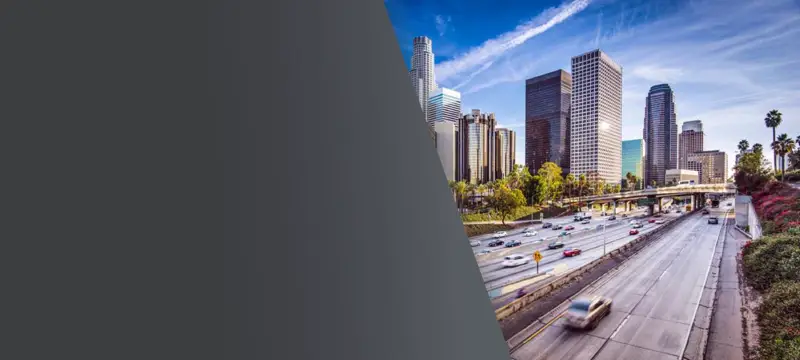
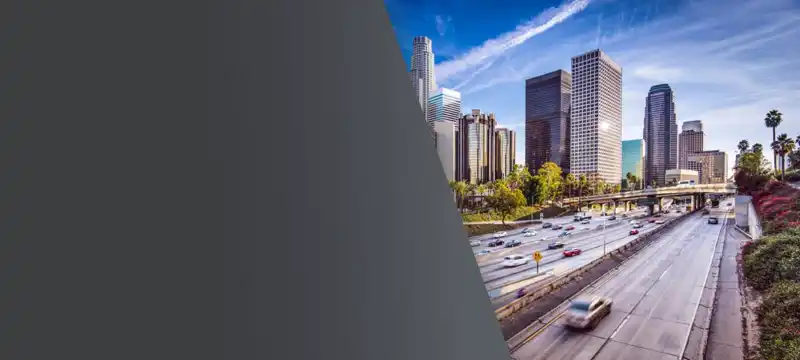
Perf: HDD page — platters img WebP srcset, hero 480w variants for all pages (1x mobile), recompress hero-800 q=45

diff --git a/pages/data-recovery/hard-drive-recovery.vue b/pages/data-recovery/hard-drive-recovery.vue
@@ -151,7 +151,11 @@ const toggleFaq = (i: number) => { openFaq.value = openFaq.value === i ? null : 
           <p class="s-body"><em>Expert service with real results always keeps you informed.</em></p>
         </div>
         <div>
-          <img src="/hard-drive-internal-platters.jpg" alt="Open hard drive showing internal platters and read/write heads" class="rounded-img" width="1200" height="798" loading="lazy" />
+          <img src="/hard-drive-internal-platters-640.webp"
+               srcset="/hard-drive-internal-platters-640.webp 640w, /hard-drive-internal-platters-800.webp 800w, /hard-drive-internal-platters-1280.webp 1280w"
+               sizes="(max-width: 640px) 100vw, (max-width: 1024px) 800px, 640px"
+               alt="Open hard drive showing internal platters and read/write heads"
+               class="rounded-img" width="640" height="426" loading="lazy" />
         </div>
       </div>
     </section>

diff --git a/components/HeroSection.vue b/components/HeroSection.vue
@@ -33,7 +33,7 @@ const props = withDefaults(defineProps<Props>(), {
 // Auto-generate srcset from bgImage prop — assumes -800.webp and -1400.webp variants exist
 const bgImageSrcset = computed(() => {
   const base = props.bgImage.replace(/\.[^.]+$/, '')
-  return `${base}-800.webp 800w, ${base}-1400.webp 1400w`
+  return `${base}-480.webp 480w, ${base}-800.webp 800w, ${base}-1400.webp 1400w`
 })
 
 const overlayStyle = computed(() => ({